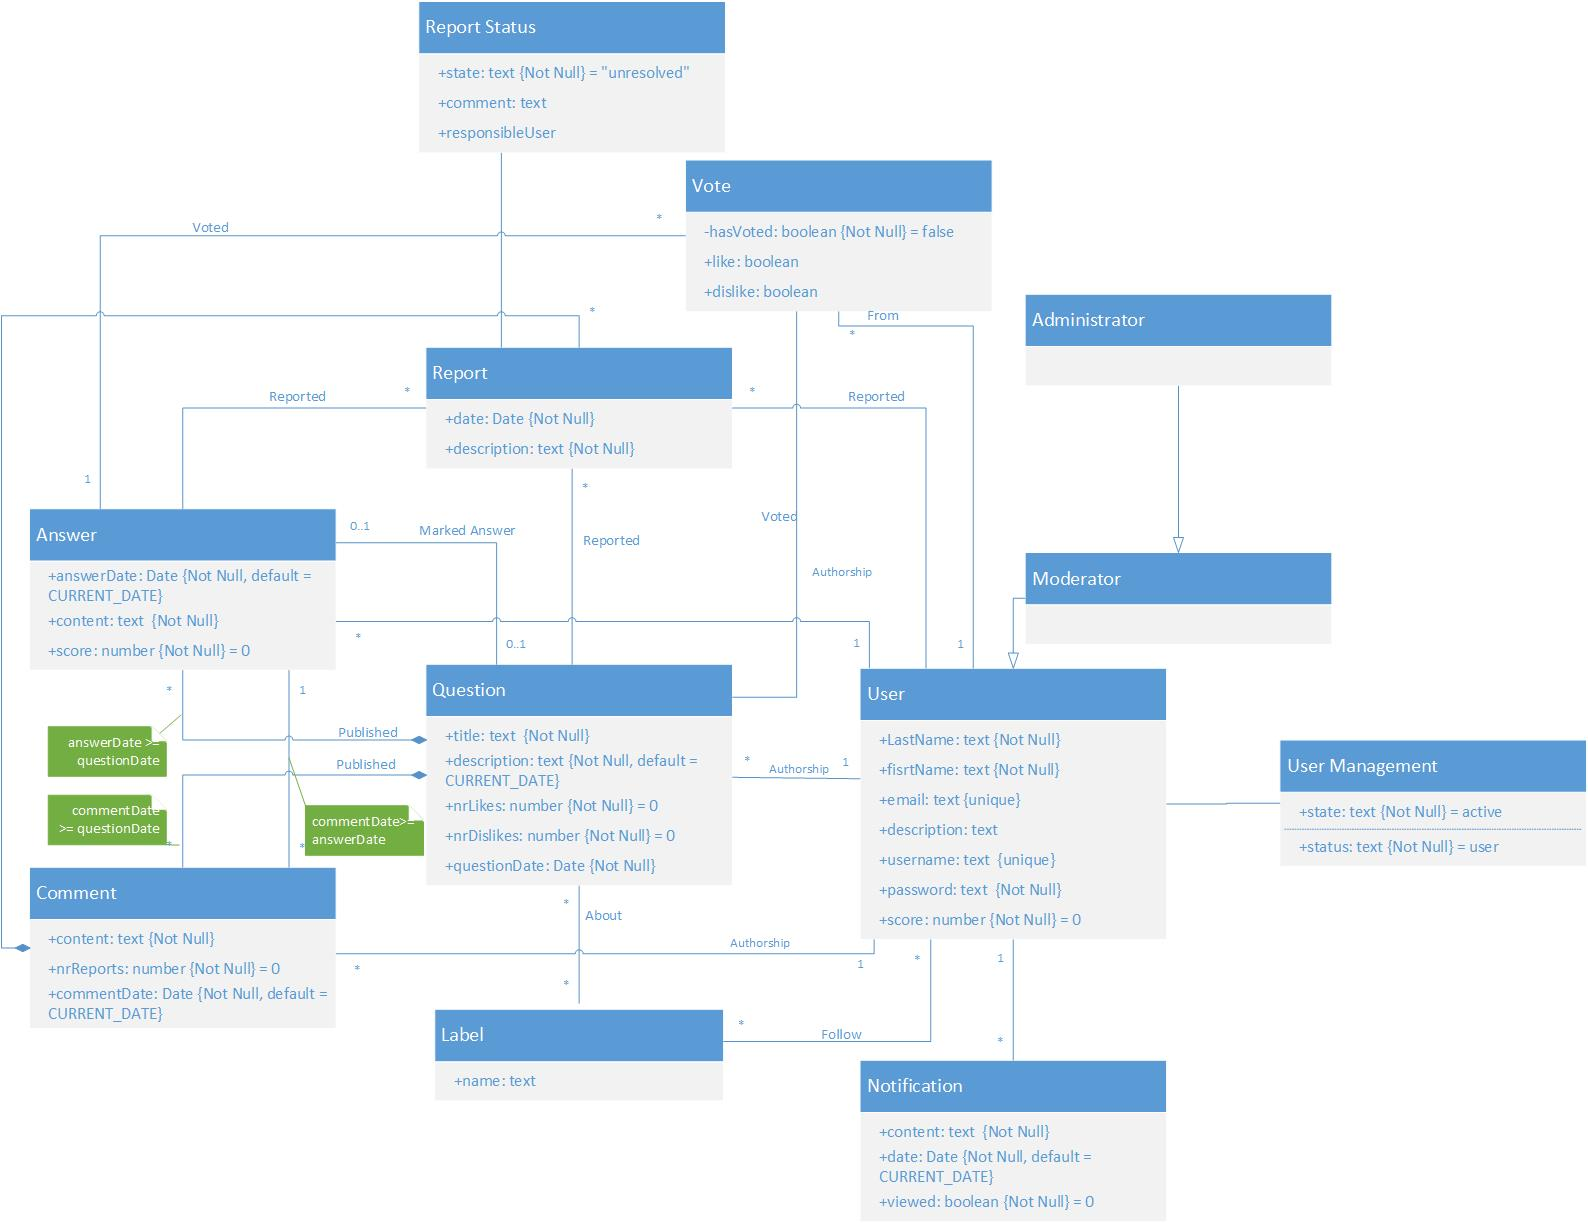
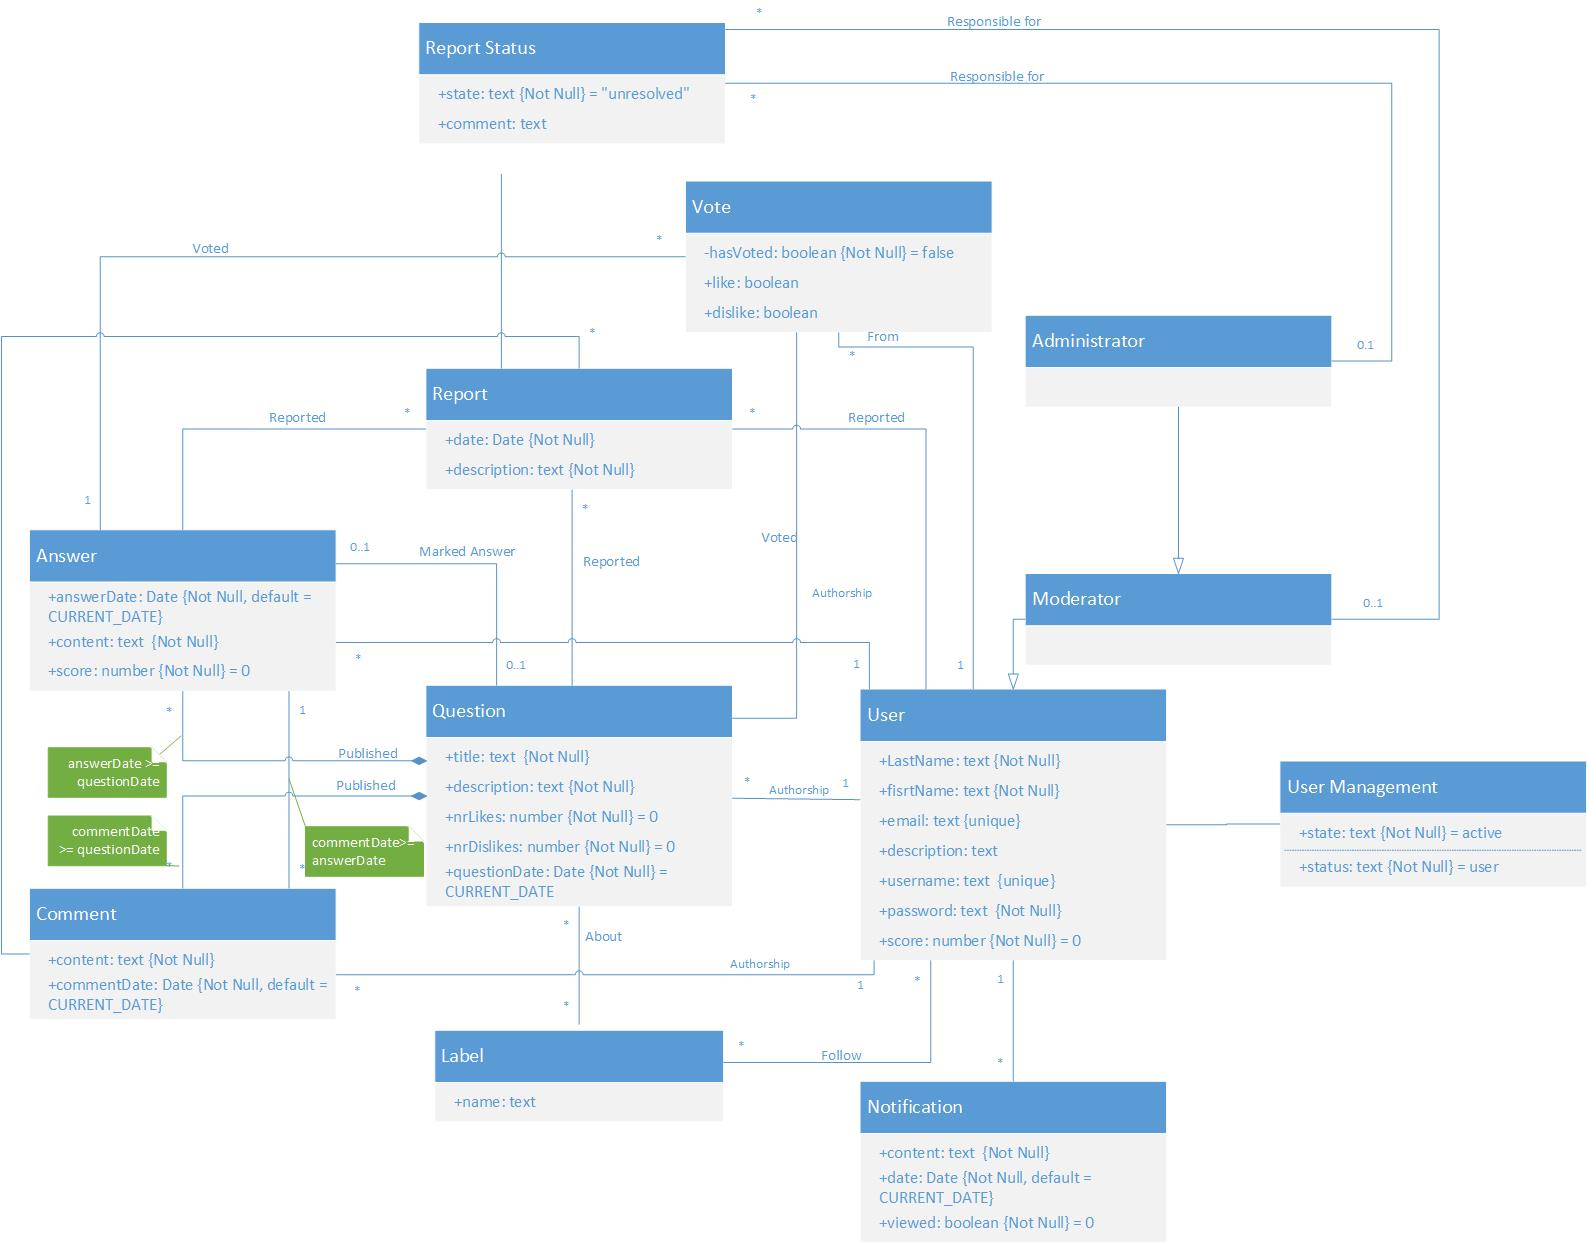
updated A$

diff --git a/artifacts/lbaw2064_a5.md b/artifacts/lbaw2064_a5.md
@@ -1,0 +1,11 @@
+
+| Relation reference | Relation Compact Notation                                                                             |
+| ------------------ | ----------------------------------------------------------------------------------------------------- |
+| R01                |    user(*ID*, firstName NN, lastName NN, email NN, description, username UK NN, password NN, score DF 0)                       |
+| R01                |    label(*ID*, name NN)                       |
+| R01                |    following(*user_id* -> user, *label_id* -> label))                       |
+| R01                |    notification(*ID*, content NN, date DF Today, viewed DF false, user_id -> user NN)                       |
+| R01                |    userManagement(*ID*, state NN, status NN, user_id -> user NN)                       |
+| R01                |    moderator(*user_id* -> user)                       |
+| R01                |    administrator(*moderator_id* -> moderator)                       |
+| R01                |    vote(*ID*, hasVoted DF False, like, dislike, user_id-> user NN, question_id -> question, answer_id -> answer) )                       |

diff --git a/artifacts/lbaw2064_a4.md b/artifacts/lbaw2064_a4.md
@@ -14,11 +14,13 @@ This artifact consists in the Conceptual Domain Model, containing the UML class 
 | BR02 | Correct Answer | A question can only have one answer marked as correct at most. |
 | BR03 | Report State | A report can only have 3 states and in this order: unresolved, processing, resolved. |
 | BR03 | Minimum Description | A question's description must have a minimum number of characters to prevent simple questions to be posted. |
+| BR04 | Report Responable | A report may have no one reponsable for ir or either one administrator or one moderator. |
 
 ***
 
 ## Revision history
 1. First submission (16/03/2020).
+2. Updated the UML diagram adding new entities: Vote, Report Status and User management. Added new Business Rules accordingly. (20/03/2020)
 ------
 
 GROUP2064, 16/03/2020
